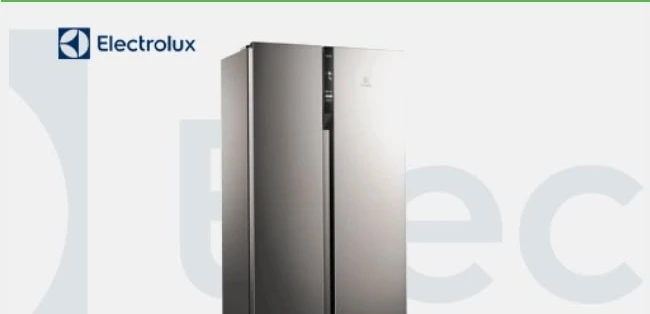
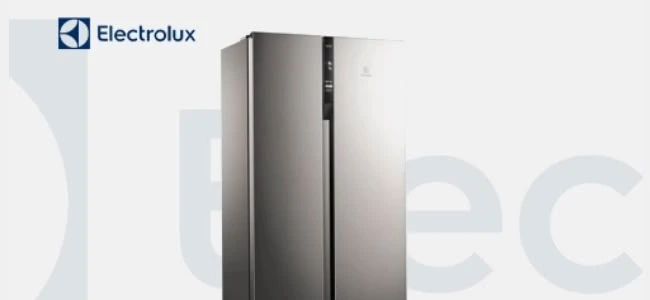
Add files via upload

diff --git a/js/index-CGUoBG9K.js b/js/index-CGUoBG9K.js
@@ -64,4 +64,4 @@ Error generating stack: `+o.message+`
  * LICENSE.md file in the root directory of this source tree.
  *
  * @license MIT
[2 lines of base64/hex data omitted]